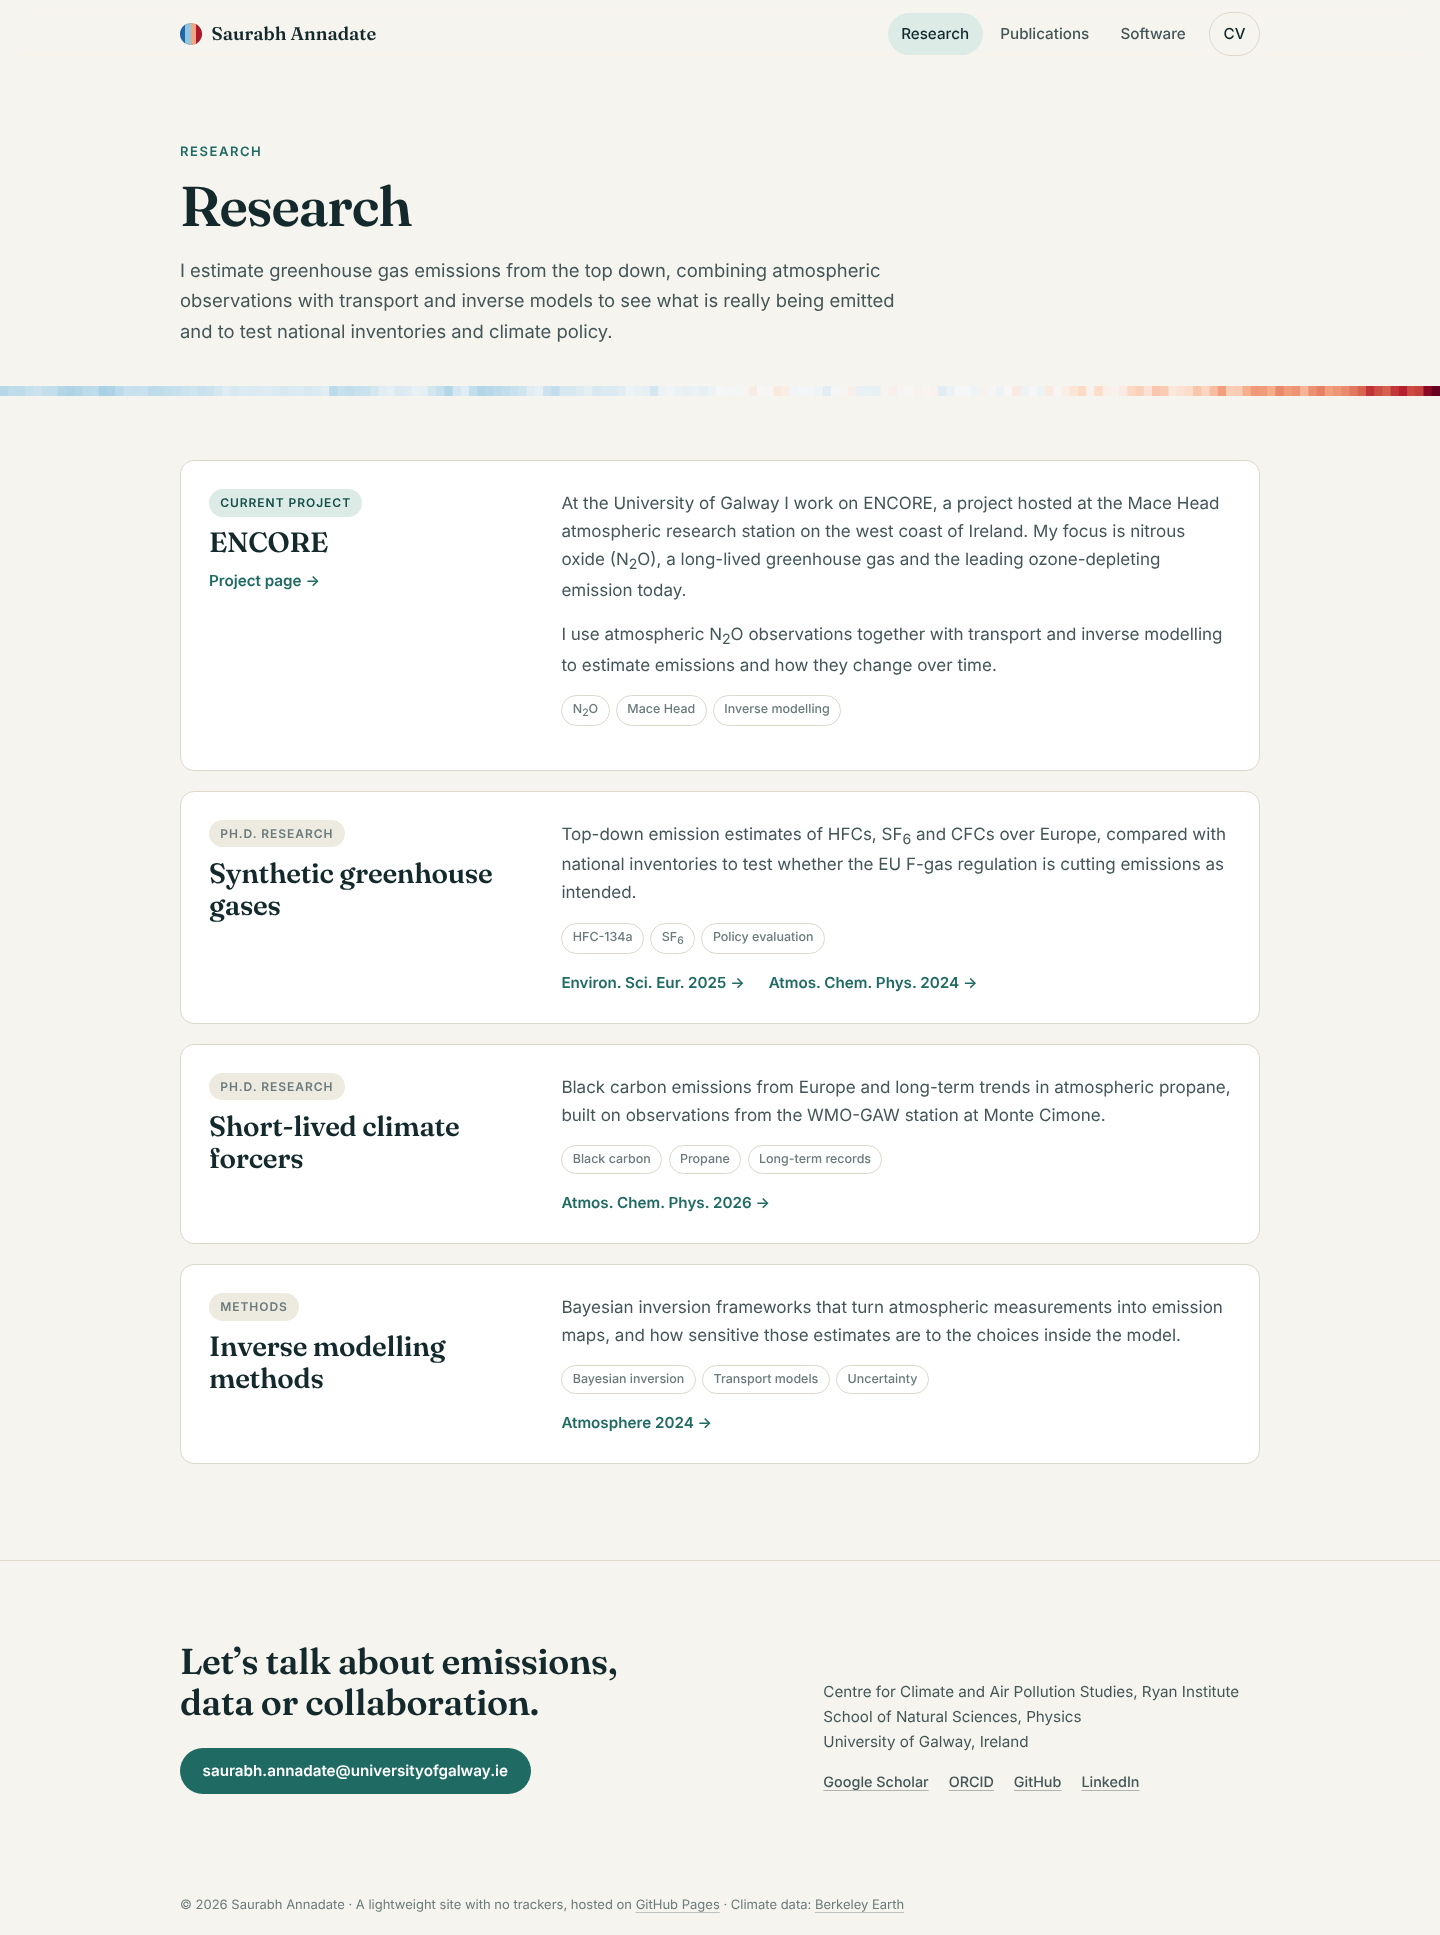
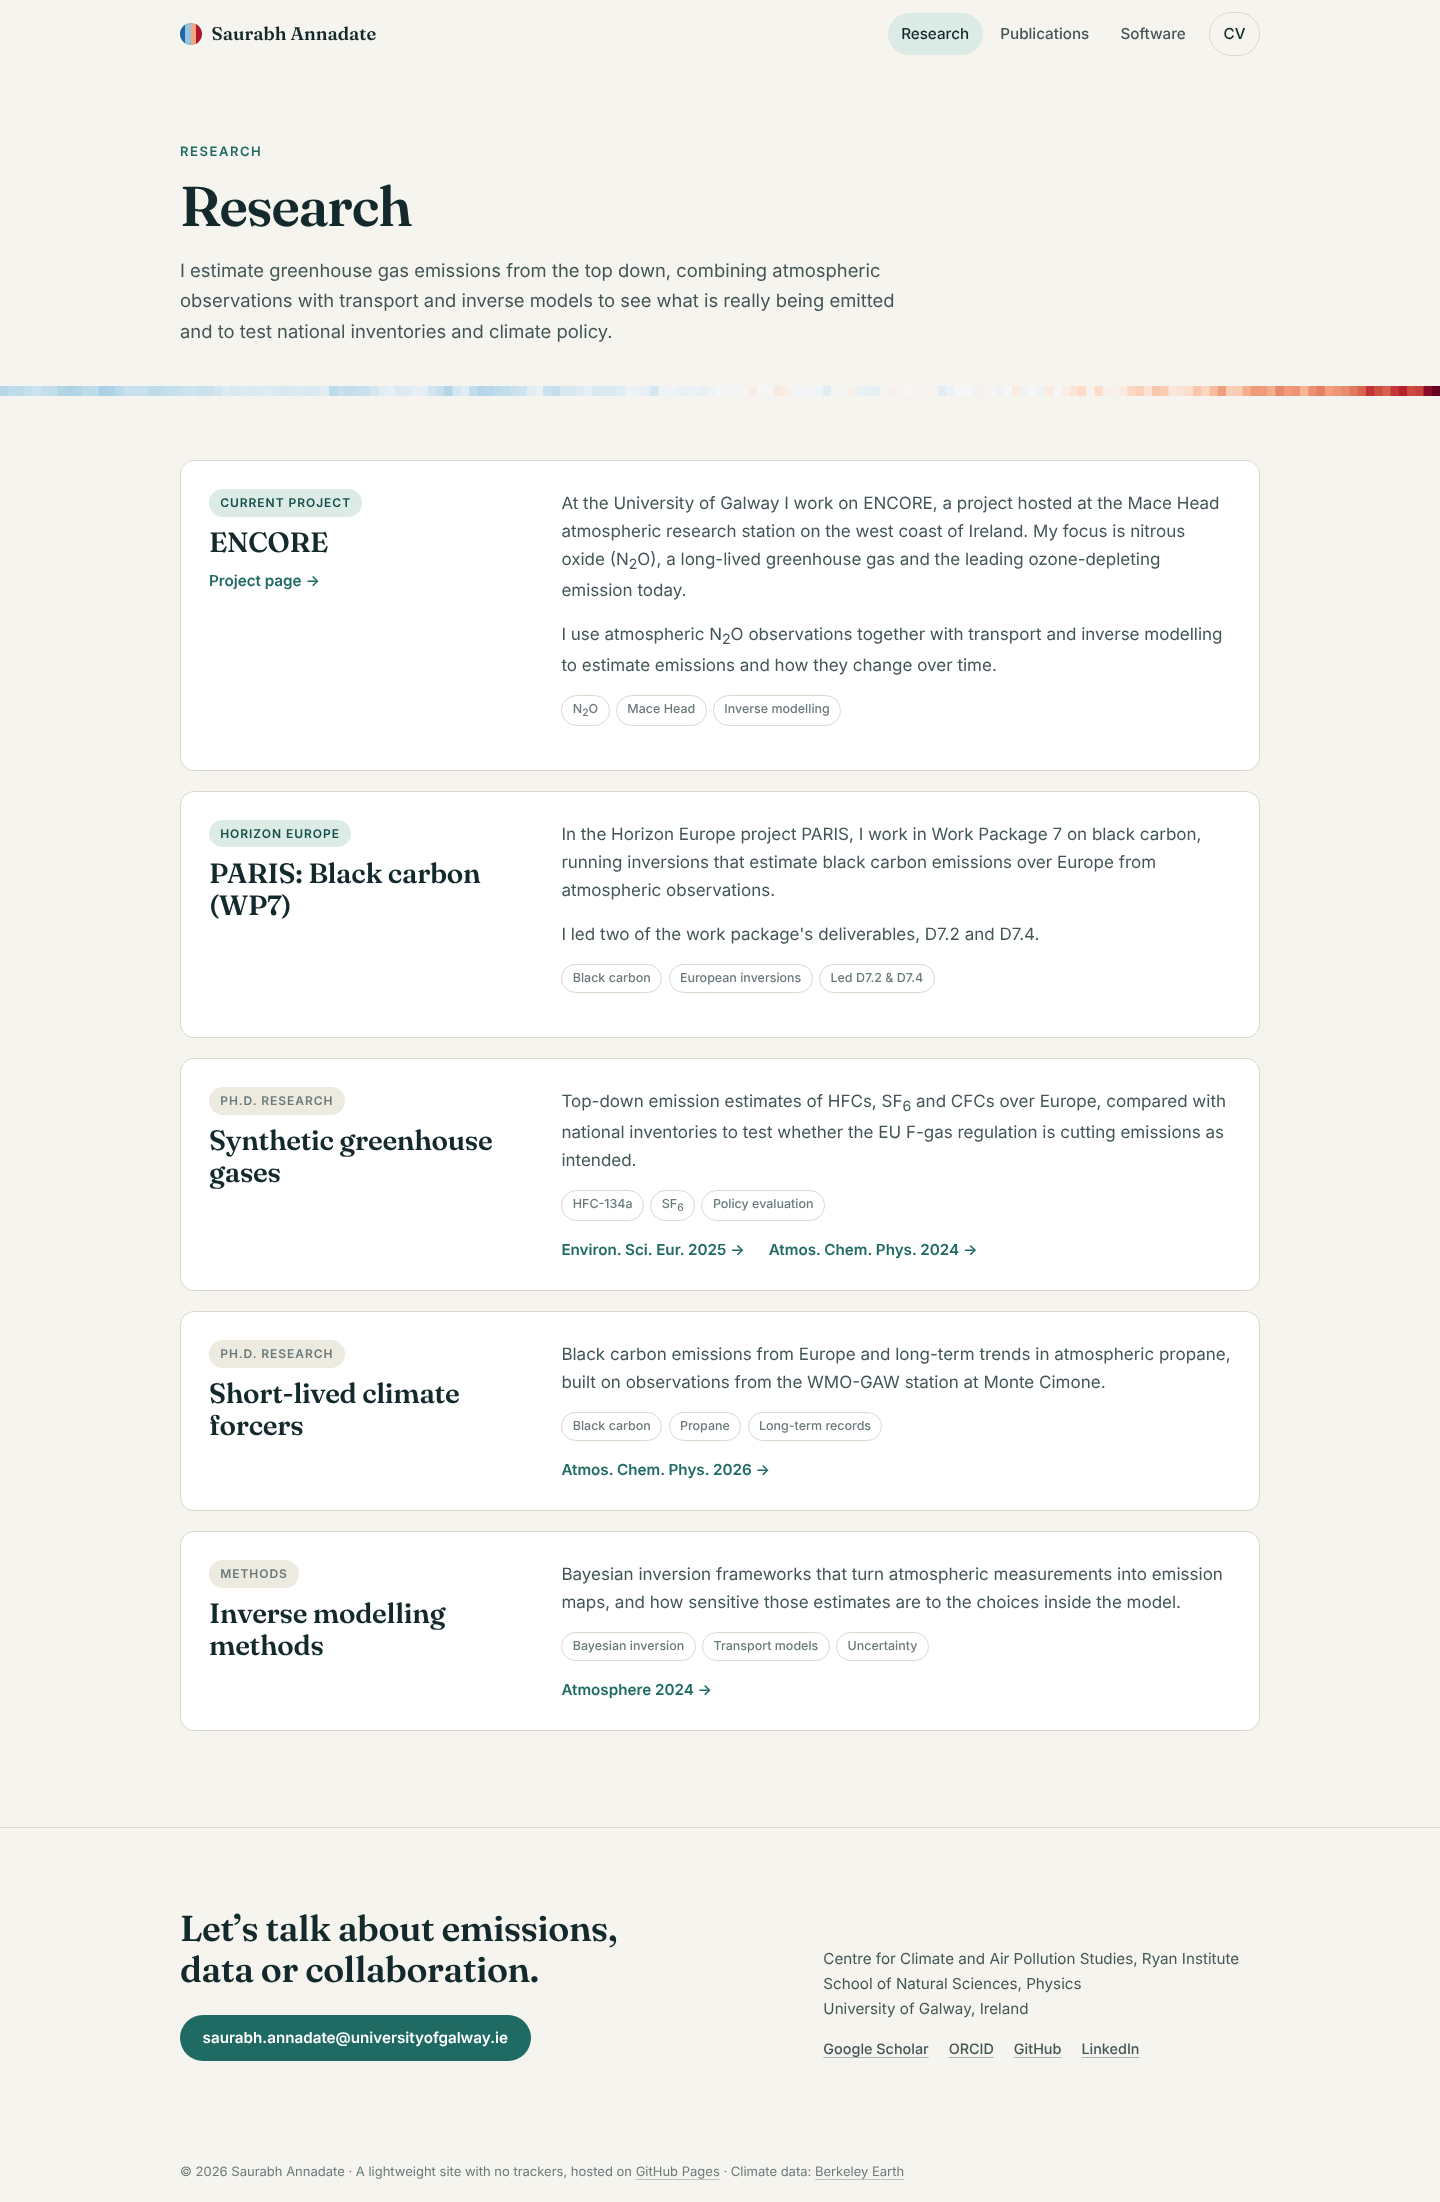
Add PARIS black carbon (WP7) project to Research; name University of Galway in hero caption
Claude-Session: https://claude.ai/code/session_01VWHZAcAu34WgvbFrVhZdBT

diff --git a/pages/research.html b/pages/research.html
@@ -70,6 +70,23 @@
 
                 <article class="card project">
                     <div class="project-side">
+                        <span class="project-badge">Horizon Europe</span>
+                        <h2>PARIS: Black carbon (WP7)</h2>
+                    </div>
+                    <div class="project-body">
+                        <p>
+                            In the Horizon Europe project PARIS, I work in Work Package 7 on black carbon, running
+                            inversions that estimate black carbon emissions over Europe from atmospheric observations.
+                        </p>
+                        <p>
+                            I led two of the work package's deliverables, D7.2 and D7.4.
+                        </p>
+                        <ul class="theme-tags"><li>Black carbon</li><li>European inversions</li><li>Led D7.2 &amp; D7.4</li></ul>
+                    </div>
+                </article>
+
+                <article class="card project">
+                    <div class="project-side">
                         <span class="project-badge is-past">Ph.D. research</span>
                         <h2>Synthetic greenhouse gases</h2>
                     </div>

diff --git a/index.html b/index.html
@@ -62,7 +62,7 @@
                 <img src="images/profile.jpg" alt="Portrait of Saurabh Annadate" width="420" height="520">
                 <figcaption>
                     <span class="status-dot" aria-hidden="true"></span>
-                    Postdoctoral Researcher, Centre for Climate &amp; Air Pollution Studies
+                    Postdoctoral Researcher, Centre for Climate &amp; Air Pollution Studies, University of Galway
                 </figcaption>
             </figure>
         </section>
